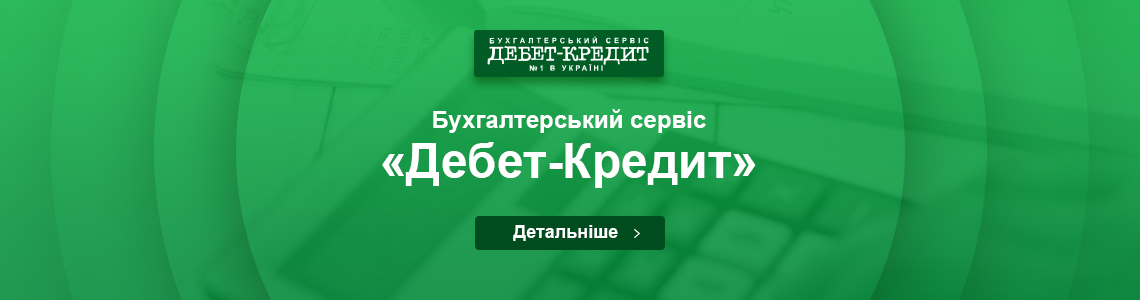
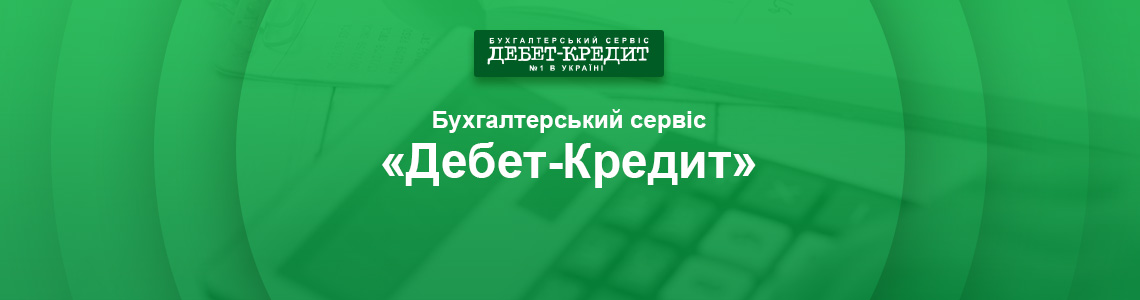
Fixed btn-more styles, added collapsed block for package, added page covers

Changed region(s): [[0.3991, 0.72, 0.5833, 0.84]]

diff --git a/src/dtkt/src/style.css b/src/dtkt/src/style.css
@@ -10,9 +10,9 @@
 
 @media (prefers-reduced-motion: reduce) { .collapsing { transition: none; } }
 
-#page-dtkt .btn { font-size: 14px; font-weight: bold; box-shadow: none; padding: 3px 10px; min-width: 190px; }
+#page-dtkt .btn { font-size: 14px; font-weight: bold; box-shadow: none; padding: 3px 10px; }
 
-@media (min-width: 576px) { #page-dtkt .btn { font-size: 18px; } }
+@media (min-width: 576px) { #page-dtkt .btn { font-size: 18px; min-width: 190px; } }
 
 #page-dtkt .btn:focus { box-shadow: none; }
 
@@ -20,15 +20,29 @@
 
 #page-dtkt .btn-order:hover, #page-dtkt .btn-order:active { color: #ffffff; background: #bc0035; }
 
+#page-dtkt .btn-package { color: #ffffff; background: #ff1053; min-width: 190px; font-size: 18px; }
+
+#page-dtkt .btn-package:hover, #page-dtkt .btn-package:active { color: #ffffff; background: #bc0035; }
+
 #page-dtkt .btn-dtkt { color: #ffffff; background: #004b20; }
 
 #page-dtkt .btn-dtkt:hover, #page-dtkt .btn-dtkt:active { color: #ffffff; background: #006f2f; }
 
+#page-dtkt .btn-more { min-width: 190px; font-size: 18px; color: #0b3a4a; border: solid 2px #0b3a4a; background: #fff; outline: none; }
+
+#page-dtkt .btn-more span { position: relative; }
+
+#page-dtkt .btn-more span:after { content: ''; position: absolute; top: 30%; right: -20px; width: 9px; height: 9px; transform: translateY(-30%) rotate(45deg); background: transparent; border-bottom: 2px solid #0b3a4a; border-right: 2px solid #0b3a4a; transition: transform 0.3s; }
+
+#page-dtkt .btn-more.collapsed span:after { top: 70%; transform: translateY(-70%) rotate(225deg); }
+
+#page-dtkt .btn-more:hover { color: #ffffff; background: #0b3a4a; outline: none; box-shadow: none; }
+
+#page-dtkt .btn-more:focus, #page-dtkt .btn-more:active { background: #fff; color: #0b3a4a; }
+
 #page-dtkt .btn-arrow { position: relative; }
 
-#page-dtkt .btn-arrow:after { content: ''; display: inline-block; width: 9px; height: 9px; background: transparent; transform: rotate(-45deg); border-bottom: 2px solid #dee2e6; border-right: 2px solid #dee2e6; }
-
-@media (min-width: 576px) { #page-dtkt .btn-arrow:after { margin-left: 8px; } }
+#page-dtkt .btn-arrow:after { content: ''; display: inline-block; width: 9px; height: 9px; background: transparent; transform: rotate(-45deg); border-bottom: 2px solid #fff; border-right: 2px solid #fff; margin-left: 8px; }
 
 #page-dtkt .landing-section .container { padding-top: 40px; padding-bottom: 40px; }
 
@@ -58,22 +72,6 @@
   #page-dtkt .landing-title:after { display: none; }
   #page-dtkt .landing-title span { padding-right: 0; } }
 
-#page-dtkt .btnf { font-size: 14px; font-weight: bold; min-width: 80%; padding: 0.23rem 0.75rem; }
-
-@media (min-width: 768px) { #page-dtkt .btnf { font-size: 18px; min-width: 190px; } }
-
-#page-dtkt .btnf.btn-order { color: #ffffff; background: #ff1053; }
-
-#page-dtkt .btnf.btn-order:hover, #page-dtkt .btnf.btn-order:focus, #page-dtkt .btnf.btn-order:active { background: #bc0035; }
-
-#page-dtkt .btnf span { position: relative; }
-
-#page-dtkt .btnf--more { background: #fff; color: #0b3a4a; border: solid 2px #0b3a4a; outline: none; }
-
-#page-dtkt .btnf--more:hover { color: #ffffff; background: #0b3a4a; outline: none; box-shadow: none; }
-
-#page-dtkt .btnf--more:focus, #page-dtkt .btnf--more:active { background: #fff; color: #0b3a4a; }
-
 #page-dtkt .landing-cover { position: relative; display: block; }
 
 @media (min-width: 992px) { #page-dtkt .landing-cover { margin-left: -5px; margin-right: -5px; } }
@@ -88,11 +86,11 @@
 
 #page-dtkt .package { display: flex; flex-direction: column; box-shadow: 0 0 22.8px 1.2px rgba(0, 0, 0, 0.1); border-radius: 5px; }
 
-#page-dtkt .package__header { padding: 35px 0; font-size: 20px; text-align: center; color: #ffffff; background: #0b3a4a; }
+#page-dtkt .package__header { padding: 35px 0; font-size: 20px; text-align: center; color: #ffffff; background: #0b3a4a; border-radius: 5px 5px 0 0; }
 
 #page-dtkt .package__title { margin-bottom: 15px; font-size: 20px; font-weight: bold; }
 
-#page-dtkt .package__period { margin-bottom: 30px; color: #61d0f3; }
+#page-dtkt .package__period { display: none; margin-bottom: 30px; color: #61d0f3; }
 
 #page-dtkt .package__price { margin-bottom: 5px; font-size: 40px; line-height: 35px; font-weight: bold; }
 
@@ -138,7 +136,7 @@
 
 @media (max-width: 991.98px) { #page-dtkt .package__title { margin-bottom: 15px; font-size: 20px; font-weight: bold; } }
 
-@media (max-width: 767.98px) { #page-dtkt .package { max-width: 290px; }
+@media (max-width: 767.98px) { #page-dtkt .package { width: 290px; }
   #page-dtkt .package__footer { display: none; }
   #page-dtkt .package__btn--collapsed { display: block; }
   #page-dtkt .package__abilities { padding-bottom: 20px; }

diff --git a/src/dtkt/src/component.vue b/src/dtkt/src/component.vue
@@ -4,12 +4,10 @@
             <div class="landing-section">
                 <div class="container">
                     <div class="landing-cover">
-                        <picture v-if="cover" class="landing-cover">
-                            <source v-if="cover.webp" :srcset="cover.webp" type="image/webp">
-                            <img :src="cover.cover" class="img-fluid" alt="">
+                        <picture class="landing-cover">
+                            <source :srcset="mix('images/cover.webp')" type="image/webp">
+                            <img :src="mix('images/cover.jpg')" class="img-fluid" alt="">
                         </picture>
-                        <div v-else></div>
-                        <a href="" class="landing-cover__btn btn btn-dtkt btn-arrow">Замовити</a>
                     </div>
                 </div>
             </div>
@@ -36,7 +34,7 @@
                     <p class="landing-section__action">Акційна пропозиція діє до 19 липня</p>
                     <div class="order">
                         <div class="row justify-content-center">
-                            <div class="col-md-4 col-lg-3 order__package">
+                            <div class="col-sm-6 col-md-4 col-lg-3 order__package">
                                <package article="ep-dtkt_tr">
                                     <template v-slot:title>ПАКЕТ <br> «ТЕМАТИЧНІ РОЗСИЛКИ»</template>
                                     <template v-slot:gifts>
@@ -49,7 +47,7 @@
                                     </template>
                                 </package>
                             </div>
-                            <div class="col-md-4 col-lg-3 order__package">
+                            <div class="col-sm-6 col-md-4 col-lg-3 order__package">
                                 <package article="ep-dtkt_ma" class="dddd">
                                     <template v-slot:title>ПАКЕТ <br> «МІЙ АСИСТЕНТ»</template>
                                     <template v-slot:gifts>
@@ -67,7 +65,7 @@
                                     </template>
                                 </package>
                             </div>
-                            <div class="col-md-4 col-lg-3 order__package">
+                            <div class="col-sm-6 col-md-4 col-lg-3 order__package">
                                 <package article="ep-dtkt_ek">
                                     <template v-slot:title>ПАКЕТ <br> «ЕКСПЕРТ»</template>
                                     <template v-slot:gifts>
@@ -185,16 +183,5 @@ export default {
     data:()=>({
         showList: true
     }),
-    created(){
-        this.$store.dispatch('sliders/retrieve', 'epressa_main')
-    },
-    mounted(){
-        this.$nextTick(() => this.$store.dispatch('sliders/fetch'))
-    },
-    computed:{
-        cover(){
-            return (this.$store.getters['sliders/sliders']['epressa_main'] || []).find(slide=>slide.link.params.page == 'dtkt')
-        }
-    }
 }
 </script>

diff --git a/src/e-press/src/_btn.scss b/src/e-press/src/_btn.scss
@@ -15,7 +15,6 @@
   box-shadow: none;
   padding: 3px 10px;
 
-
   @include media-breakpoint-up(sm) {
     font-size: 18px;
     min-width: 190px;
@@ -30,8 +29,64 @@
   @include btn-epress(#ffffff, #ff1053, #ffffff, #bc0035);
 }
 
+.btn-package {
+  @include btn-epress(#ffffff, #ff1053, #ffffff, #bc0035);
+  min-width: 190px;
+  font-size: 18px;
+}
+
 .btn-dtkt {
   @include btn-epress(#ffffff, #004b20, #ffffff, #006f2f);
+}
+
+.btn-more {
+  min-width: 190px;
+  font-size: 18px;
+  color: #0b3a4a;
+  border: solid 2px #0b3a4a;
+  background: #fff;
+  outline: none;
+
+  span {
+    position: relative;
+
+    &:after{
+      $square: 9px;
+      $border-color: #0b3a4a;
+      content: '';
+      position: absolute;
+      top: 30%;
+      right: -20px;
+      width: $square;
+      height: $square;
+      transform:  translateY(-30%) rotate(45deg);
+      background: transparent;
+      border-bottom: 2px solid $border-color;
+      border-right: 2px solid $border-color;
+      transition: transform 0.3s,
+    }
+  }
+
+  &.collapsed {
+    span {
+      &:after {
+        top: 70%;
+        transform: translateY(-70%) rotate(225deg);
+      }
+    }
+  }
+
+  &:hover {
+    color: #ffffff;
+    background: #0b3a4a;
+    outline: none;
+    box-shadow: none;
+  }
+
+  &:focus, &:active {
+    background: #fff;
+    color: #0b3a4a;
+  }
 }
 
 .btn-arrow {

diff --git a/src/dtkt/src/Package.vue b/src/dtkt/src/Package.vue
@@ -21,7 +21,7 @@
                 </ul>
             </div>
             <p class="package__btn">
-                <router-link :to="`/order?article=${article}&options[periods]=6`" class="btn btn-order" target="_blank">Замовити</router-link>
+                <router-link :to="`/order?article=${article}&options[periods]=6`" class="btn btn-package" target="_blank">Замовити</router-link>
             </p>
 
             <div class="package__abilities" :class="{collapsed}">
@@ -31,13 +31,13 @@
                 </ul>
             </div>
             <p class="package__btn  package__btn--collapsed">
-                <button v-on:click="collapsed = !collapsed" class="btn btn-order" :class="{collapsed}">
-                    Про пакет
+                <button v-on:click="collapsed = !collapsed" class="btn btn-more" :class="{collapsed}">
+                    <span>Про пакет</span>
                 </button>
             </p>
         </div>
         <div class="package__footer">
-            <router-link :to="`/order?article=${article}&options[periods]=6`" class="btn btn-order" target="_blank">Беру!</router-link>
+            <router-link :to="`/order?article=${article}&options[periods]=6`" class="btn btn-package" target="_blank">Беру!</router-link>
         </div>
     </div>
 </template>

diff --git a/src/e-press/src/style.css b/src/e-press/src/style.css
@@ -80,9 +80,25 @@
 
 .btn-order:hover, .btn-order:active { color: #ffffff; background: #bc0035; }
 
+.btn-package { color: #ffffff; background: #ff1053; min-width: 190px; font-size: 18px; }
+
+.btn-package:hover, .btn-package:active { color: #ffffff; background: #bc0035; }
+
 .btn-dtkt { color: #ffffff; background: #004b20; }
 
 .btn-dtkt:hover, .btn-dtkt:active { color: #ffffff; background: #006f2f; }
+
+.btn-more { min-width: 190px; font-size: 18px; color: #0b3a4a; border: solid 2px #0b3a4a; background: #fff; outline: none; }
+
+.btn-more span { position: relative; }
+
+.btn-more span:after { content: ''; position: absolute; top: 30%; right: -20px; width: 9px; height: 9px; transform: translateY(-30%) rotate(45deg); background: transparent; border-bottom: 2px solid #0b3a4a; border-right: 2px solid #0b3a4a; transition: transform 0.3s; }
+
+.btn-more.collapsed span:after { top: 70%; transform: translateY(-70%) rotate(225deg); }
+
+.btn-more:hover { color: #ffffff; background: #0b3a4a; outline: none; box-shadow: none; }
+
+.btn-more:focus, .btn-more:active { background: #fff; color: #0b3a4a; }
 
 .btn-arrow { position: relative; }
 

diff --git a/src/dtkt/src/_landing.scss b/src/dtkt/src/_landing.scss
@@ -1,62 +1,3 @@
-.btnf {
-  font-size: 14px;
-  font-weight: bold;
-
-  min-width: 80%;
-  padding: 0.23rem 0.75rem;
-
-  @include media-breakpoint-up(md) {
-    font-size: 18px;
-    min-width: 190px;
-  }
-
-  &.btn-order {
-    color: #ffffff;
-    background: #ff1053;
-
-    @include hover-focus-active() {
-      background: #bc0035;
-    }
-  }
-
-  &.btn-dtkt {
-
-  }
-
-  &.btn-more {
-
-  }
-
-
-
-  span {
-    position: relative;
-  }
-
-  &--more {
-    background: #fff;
-    color: #0b3a4a;
-    border: solid 2px #0b3a4a;
-    outline: none;
-
-    &:hover {
-      color: #ffffff;
-      background: #0b3a4a;
-      outline: none;
-      box-shadow: none;
-    }
-
-    &:focus, &:active {
-      background: #fff;
-      color: #0b3a4a;
-    }
-  }
-
-  &--dtkt {
-
-  }
-}
-
 .landing-cover {
   position: relative;
   display: block;

diff --git a/src/dtkt/src/_package.scss b/src/dtkt/src/_package.scss
@@ -10,6 +10,7 @@
     text-align: center;
     color: #ffffff;
     background: #0b3a4a;
+    border-radius: 5px 5px 0 0;
   }
 
   &__title {
@@ -19,6 +20,7 @@
   }
 
   &__period {
+    display: none;
     margin-bottom: 30px;
     color: #61d0f3;
   }
@@ -156,7 +158,7 @@
   }
 
   @include media-breakpoint-down(sm) {
-    max-width: 290px;
+    width: 290px;
 
     &__footer {
       display: none;

diff --git a/src/dtkt/src/style.scss b/src/dtkt/src/style.scss
@@ -4,7 +4,7 @@
 @import "../../node_modules/bootstrap-scss/transitions";
 
 #page-dtkt {
-  @import "btn";
+  @import "../../e-press/src/btn";
   @import "landing-section";
   @import "landing-title";
   @import "landing";

diff --git a/src/dtkt/src/_order.scss b/src/dtkt/src/_order.scss
@@ -1,6 +1,5 @@
 .order {
 
-
   &__package {
     display: flex;
     justify-content: center;
